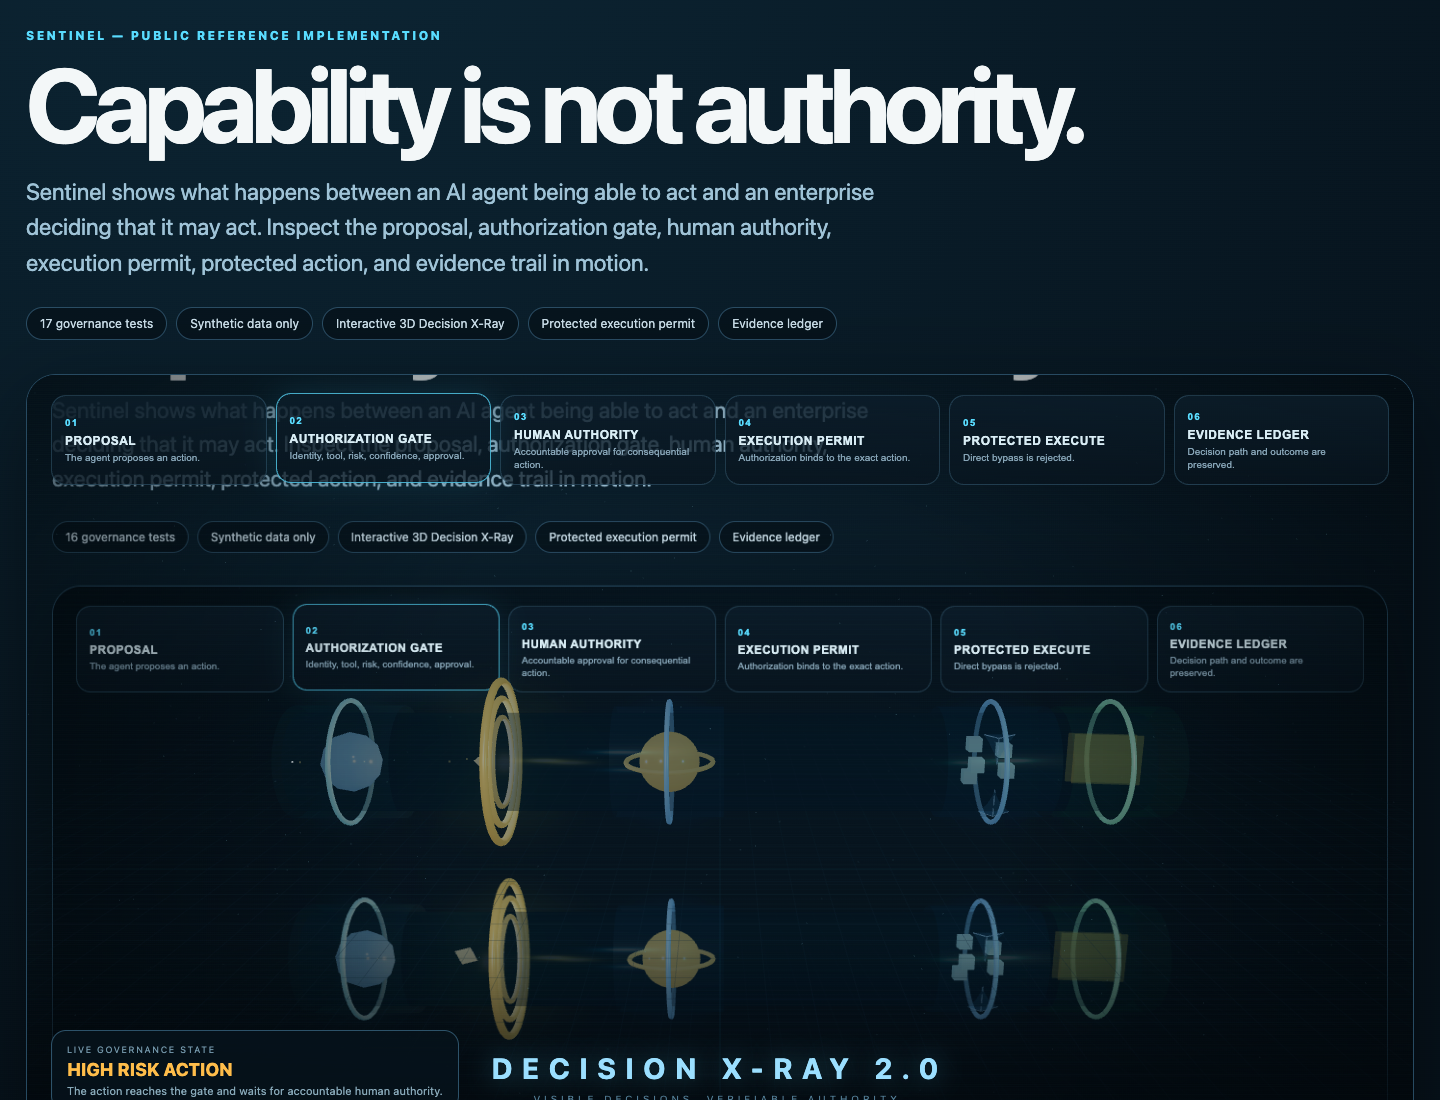
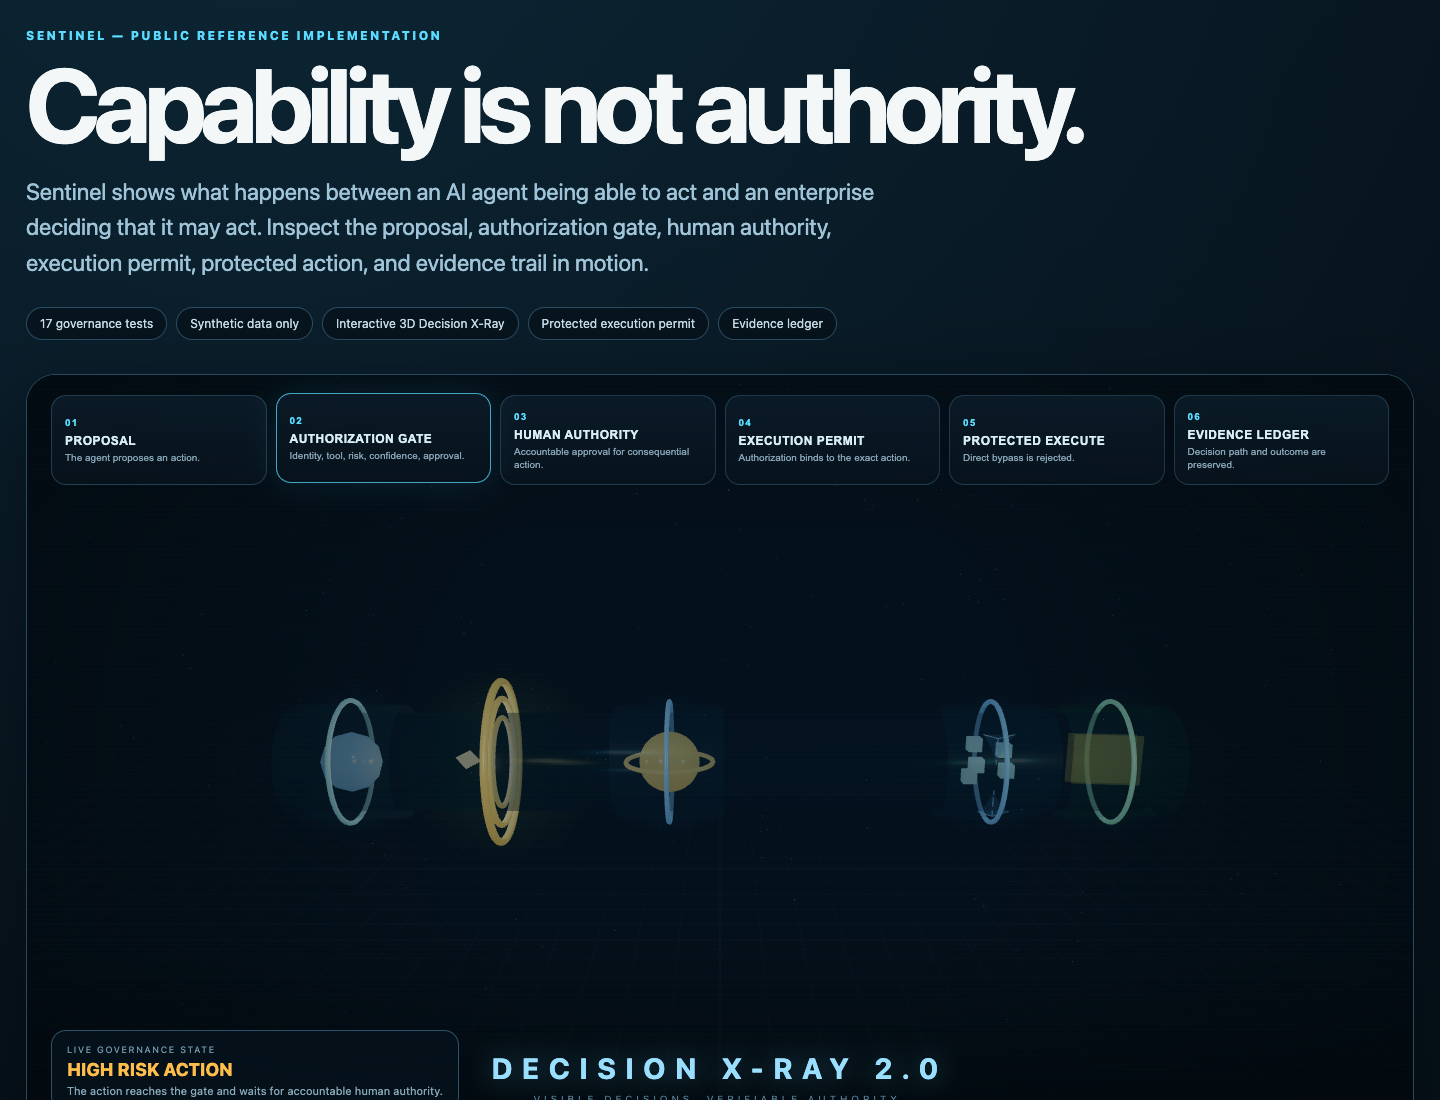
Fix Decision X-Ray ghost text bleed-through

diff --git a/docs/xray2.css b/docs/xray2.css
@@ -20,7 +20,8 @@ h1{font-size:clamp(48px,7.3vw,104px);line-height:.9;letter-spacing:-.058em;margi
 .badge{border:1px solid #2a4d64;background:rgba(5,16,24,.72);padding:8px 13px;border-radius:999px;color:#c8dce7;font-size:12px}
 
 .xray-shell{position:relative;margin-top:18px;border:1px solid #274a61;border-radius:30px;overflow:hidden;background:linear-gradient(180deg,rgba(7,22,33,.9),rgba(3,10,16,.98));box-shadow:0 30px 90px rgba(0,0,0,.42)}
-.xray-canvas-wrap{position:relative;height:min(68vw,760px);min-height:560px;overflow:hidden;background:#06131d url("assets/decision-xray2-live.png") center/cover no-repeat}
+.xray-canvas-wrap{position:relative;height:min(68vw,760px);min-height:560px;overflow:hidden;background:radial-gradient(circle at 50% 48%,#0a2433 0%,#06131d 44%,#030a10 100%)}
+#xrayCanvas{background:#04101a}
 #xrayCanvas{position:absolute;inset:0;width:100%;height:100%;display:block}
 .xray-vignette{position:absolute;inset:0;pointer-events:none;background:linear-gradient(180deg,rgba(2,8,12,.18),transparent 22%,transparent 73%,rgba(2,7,11,.78)),radial-gradient(circle at center,transparent 38%,rgba(1,7,11,.52) 100%)}
 .xray-scan{position:absolute;inset:0;pointer-events:none;opacity:.18;background:repeating-linear-gradient(180deg,transparent 0,transparent 4px,rgba(93,220,255,.08) 5px)}

diff --git a/docs/xray2.js b/docs/xray2.js
@@ -5,9 +5,9 @@ const scene=new THREE.Scene();
 scene.fog=new THREE.FogExp2(0x04101a,.055);
 const camera=new THREE.PerspectiveCamera(42,1,.1,80);
 camera.position.set(0,3.25,13.7);
-const renderer=new THREE.WebGLRenderer({canvas,antialias:true,alpha:true,powerPreference:"high-performance"});
+const renderer=new THREE.WebGLRenderer({canvas,antialias:true,alpha:false,powerPreference:"high-performance"});
 renderer.setPixelRatio(Math.min(window.devicePixelRatio,2));
-renderer.setClearColor(0x04101a,0);
+renderer.setClearColor(0x04101a,1);
 renderer.toneMapping=THREE.ACESFilmicToneMapping;
 renderer.toneMappingExposure=1.25;
 

diff --git a/docs/index.html b/docs/index.html
@@ -13,7 +13,7 @@
 <h1>Capability is not authority.</h1>
 <p class="lede">Sentinel shows what happens between an AI agent being able to act and an enterprise deciding that it may act. Inspect the proposal, authorization gate, human authority, execution permit, protected action, and evidence trail in motion.</p>
 <div class="badges">
-<span class="badge">17 governance tests</span>
+<span class="badge">18 governance tests</span>
 <span class="badge">Synthetic data only</span>
 <span class="badge">Interactive 3D Decision X-Ray</span>
 <span class="badge">Protected execution permit</span>

diff --git a/tests/test_docs_demo.py b/tests/test_docs_demo.py
@@ -9,3 +9,11 @@ def test_decision_xray_2_entrypoint_is_wired():
     assert 'href="xray2.css"' in html
     assert html.count('data-scenario=') == 5
     assert 'DECISION X-RAY 2.0' in html
+
+
+def test_xray_canvas_is_opaque_and_has_no_recursive_screenshot_background():
+    js = (ROOT / "docs" / "xray2.js").read_text(encoding="utf-8")
+    css = (ROOT / "docs" / "xray2.css").read_text(encoding="utf-8")
+    assert 'alpha:false' in js
+    assert 'setClearColor(0x04101a,1)' in js
+    assert 'decision-xray2-live.png' not in css
